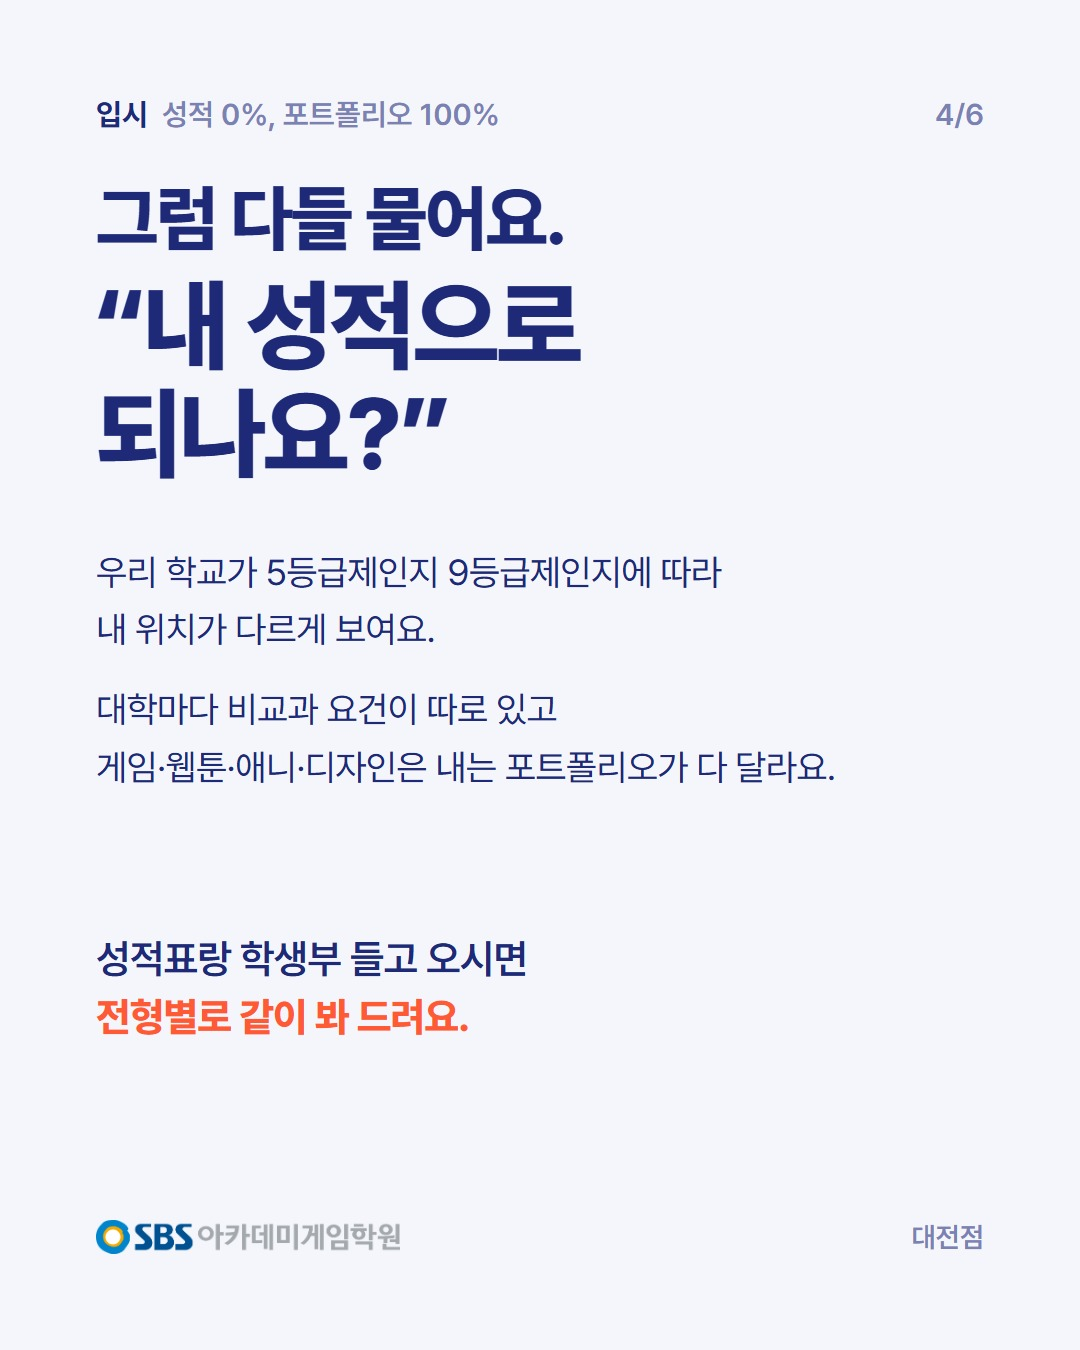
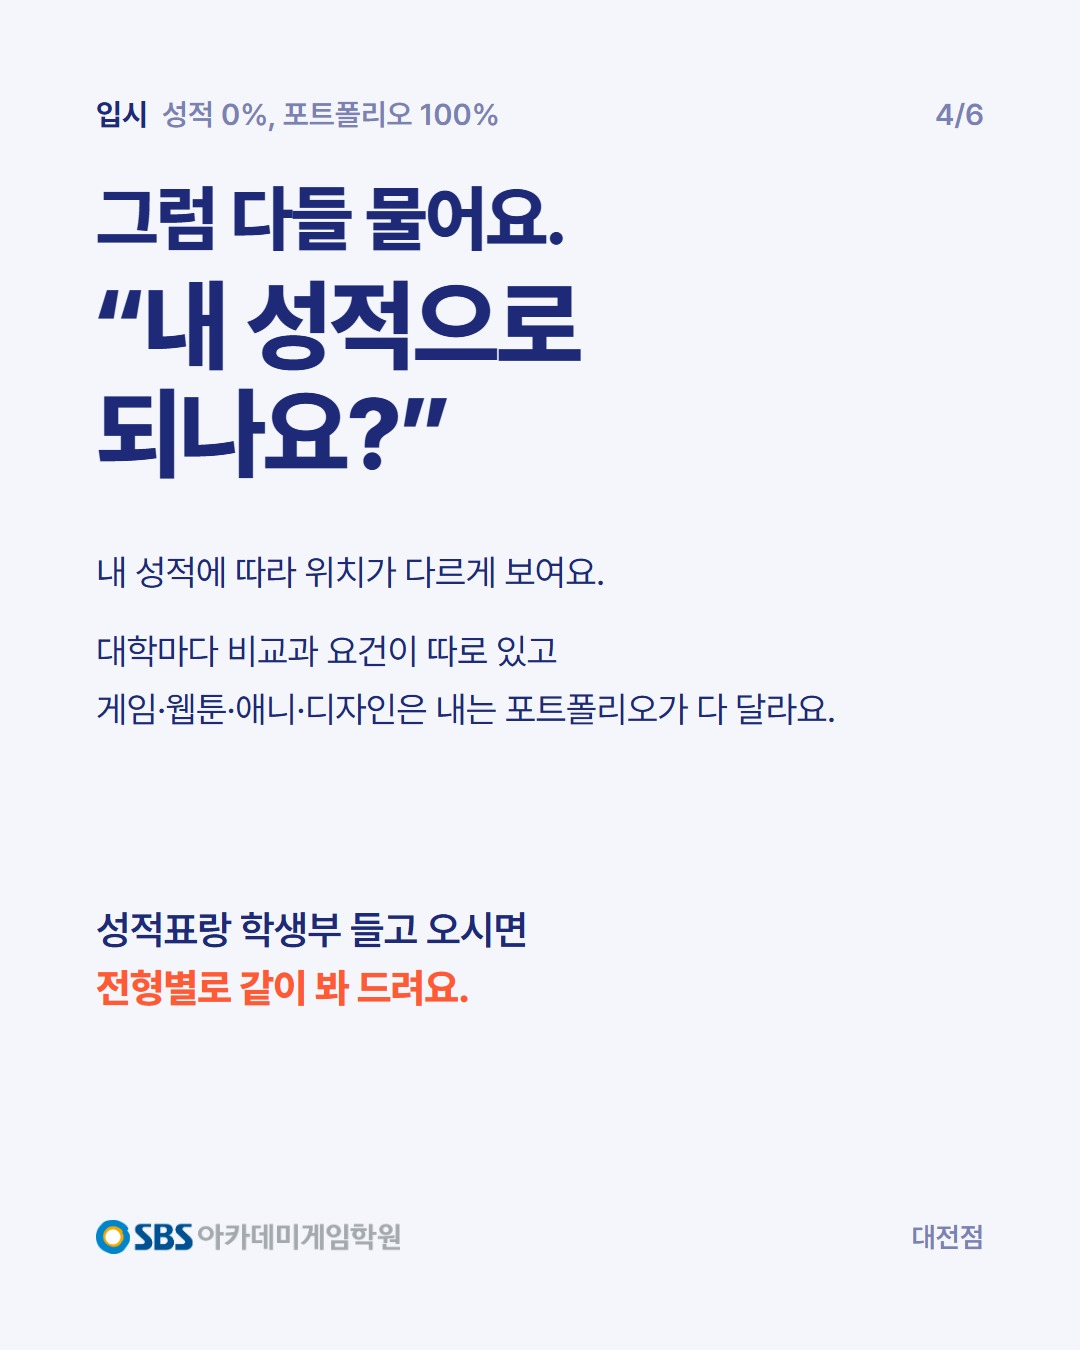
인스타 02 4장·캡션: 등급제 문구를 '내 성적에 따라 위치가 다르게 보여요'로 수정

Changed region(s): [[0.0917, 0.4044, 0.7639, 0.5911], [0.0917, 0.6533, 0.4889, 0.7778]]

diff --git a/instagram/assets/src/v2_02_04.html b/instagram/assets/src/v2_02_04.html
@@ -25,7 +25,7 @@ h1{font-weight:800;letter-spacing:-3px;line-height:1.08}
 <h1 style="margin-top:48px;font-size:72px;letter-spacing:-2px">그럼 다들 물어요.</h1>
 <h1 style="margin-top:14px;font-size:100px">“내 성적으로<br>되나요?”</h1>
 <div class="body" style="margin-top:56px;line-height:1.6">
-<p>우리 학교가 5등급제인지 9등급제인지에 따라<br>내 위치가 다르게 보여요.</p>
+<p>내 성적에 따라 위치가 다르게 보여요.</p>
 <p>대학마다 비교과 요건이 따로 있고<br>게임·웹툰·애니·디자인은 내는 포트폴리오가 다 달라요.</p>
 </div>
 <p class="lead" style="margin-top:auto;padding-bottom:40px">성적표랑 학생부 들고 오시면<br><b style="color:#FF5A36">전형별로 같이 봐 드려요.</b></p>

diff --git a/instagram/build_carousels_v2.py b/instagram/build_carousels_v2.py
@@ -92,7 +92,7 @@ S4 = f"""
 <h1 style="margin-top:48px;font-size:72px;letter-spacing:-2px">그럼 다들 물어요.</h1>
 <h1 style="margin-top:14px;font-size:100px">“내 성적으로<br>되나요?”</h1>
 <div class="body" style="margin-top:56px;line-height:1.6">
-<p>우리 학교가 5등급제인지 9등급제인지에 따라<br>내 위치가 다르게 보여요.</p>
+<p>내 성적에 따라 위치가 다르게 보여요.</p>
 <p>대학마다 비교과 요건이 따로 있고<br>게임·웹툰·애니·디자인은 내는 포트폴리오가 다 달라요.</p>
 </div>
 <p class="lead" style="margin-top:auto;padding-bottom:40px">성적표랑 학생부 들고 오시면<br><b style="color:{ORANGE}">전형별로 같이 봐 드려요.</b></p>

diff --git a/instagram/README.md b/instagram/README.md
@@ -119,7 +119,7 @@ SBS아카데미게임학원 대전점 🎮
 
 청강대 게임콘텐츠스쿨 면접전형은 면접 100%로 뽑아요. 포트폴리오로 평가하고 내신은 안 봐요. 수시 1차 88명, 수시 2차 50명으로 제일 많이 뽑는 전형이에요. 애니메이션 스쿨이랑 웹툰 스쿨도 방식은 같아요. 계원예대 게임미디어과도 면접 100%고요. 손그림 실기를 안 보고 그림으로 대학 가는 길이 생각보다 여러 개예요.
 
-"내 성적으로 되나요?" 이건 혼자 보면 헷갈려요. 우리 학교가 5등급제냐 9등급제냐에 따라 위치가 달라 보이고 대학마다 비교과 요건이 따로 있어요. 게임·웹툰·애니·디자인은 내는 포트폴리오가 다 다르거든요.
+"내 성적으로 되나요?" 이건 혼자 보면 헷갈려요. 내 성적에 따라 위치가 달라 보이고 대학마다 비교과 요건이 따로 있어요. 게임·웹툰·애니·디자인은 내는 포트폴리오가 다 다르거든요.
 
 수시 2차 원서접수는 11월 11일에 시작해 25일에 마감돼요. 성적표랑 학생부 들고 오시면 전형별로 어디까지 되는지 같이 봐 드려요. 상담 신청은 프로필 링크에서, 1~2분이면 돼요.
 
